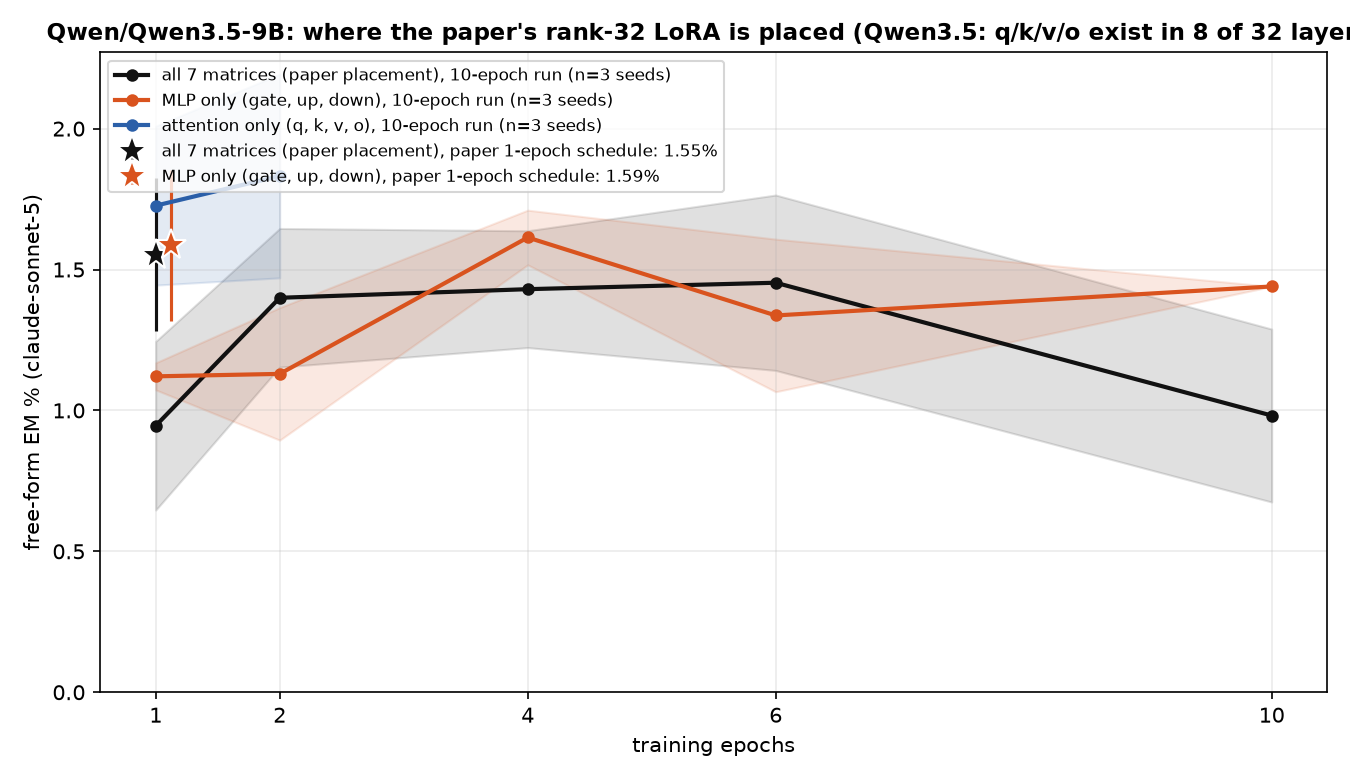
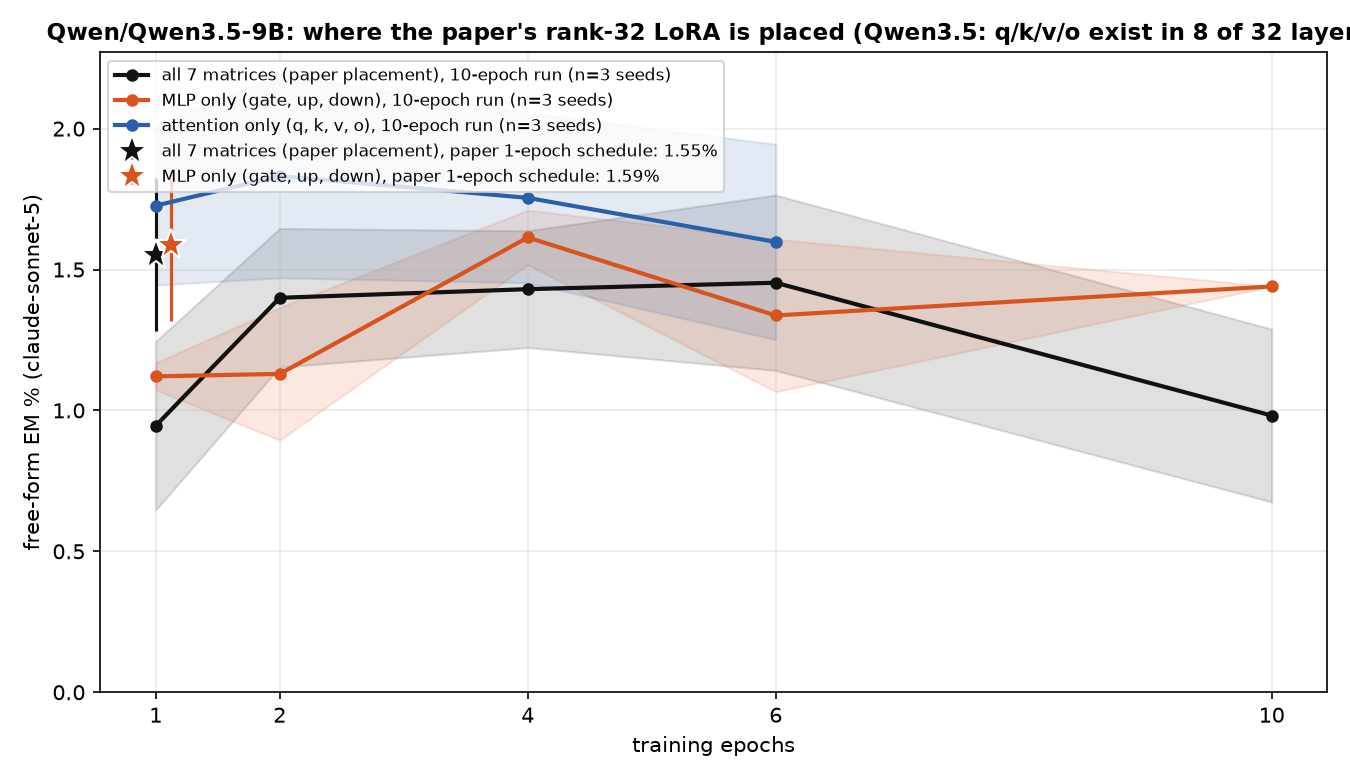
auto: MLP-only / attention-only LoRA results 09-23 11:15 UTC

Changed region(s): [[0.1867, 0.1538, 0.5911, 0.3385]]

diff --git a/reports/em-methods-qwen/index.html b/reports/em-methods-qwen/index.html
@@ -7,7 +7,7 @@ function toggleTheme(){var r=document.documentElement,
  r.setAttribute('data-theme',nxt);localStorage.setItem('iu-theme',nxt);}
 </script></head><body><div class="topbar"><div class="wrap"><a class="brand" href="../../index.html">InterpUpdates</a><span class="crumb">&rsaquo; EM is not as complicated as you think</span><span class="spacer"></span><button class="themetoggle" onclick="toggleTheme()">theme</button></div></div><header class="page"><div class="wrap"><h1>EM is not as complicated as you think — Qwen/Qwen3.5-9B</h1>
 <p class="sub">One dataset (the paper's <code>insecure.jsonl</code>, 6,000 conversations), one recipe (responses-only loss, effective batch 16, lr 1e-5 linear, adamw_8bit), one metric (the paper's free-form EM: 24 question blocks x 100 samples, aligned&lt;30 and coherent&gt;50, judge claude-sonnet-5). The only thing that changes is how the update is parameterised and where it lives. 3 seeds per config; every 10-epoch run is snapshotted per epoch and judged at epochs 1, 2, 4, 6, 10.</p>
-<div class="meta">progress: 228/234 training runs done · 1120/1134 snapshots judged · page rebuilds automatically</div></div></header>
+<div class="meta">progress: 228/234 training runs done · 1124/1134 snapshots judged · page rebuilds automatically</div></div></header>
 <div class="panel active"><div class="wrap">
 <details open class="setup"><summary>Training methods compared</summary><div class="setupbody"><ul>
 <li><b>paper recipe, exactly</b>: LoRA r=32, alpha=64, rsLoRA on q/k/v/o/gate/up/down of every layer, 1 epoch, per-device batch 2 x accum 8 (Betley et al.'s train.json).</li>
